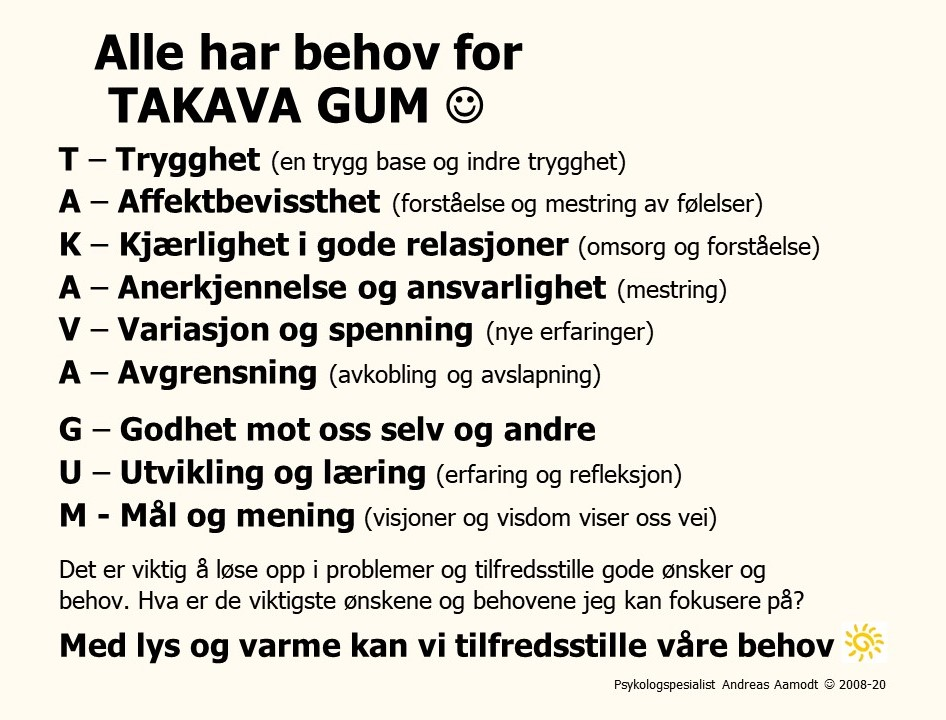
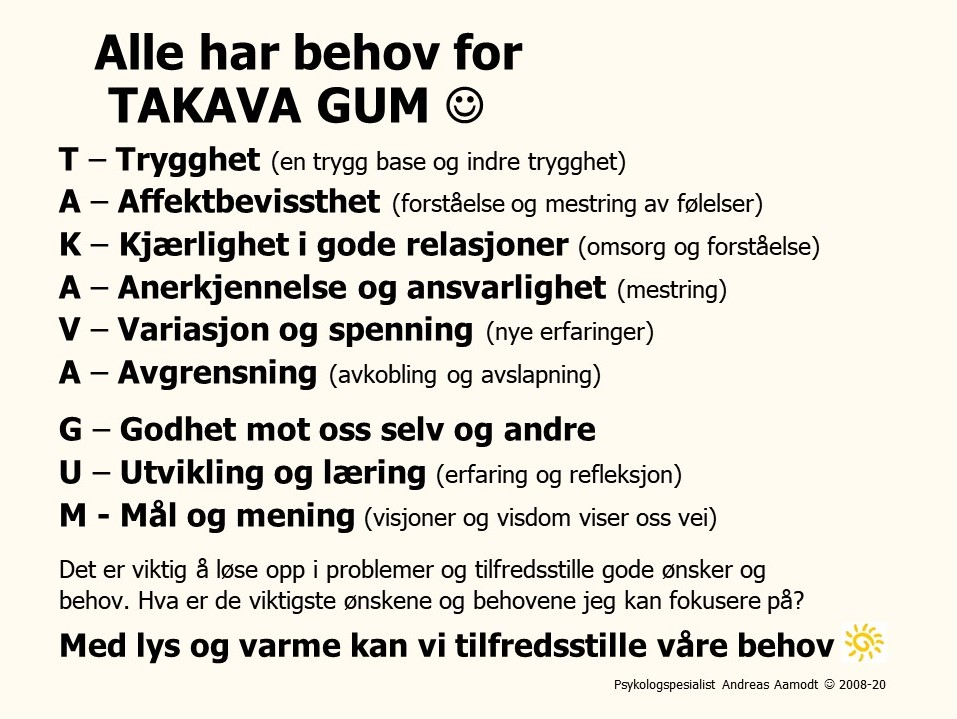
nye bilder

diff --git a/index.html b/index.html
@@ -22,6 +22,10 @@ img {
 
 <img src="images/folelseringer_gull.jpg" class="center" style="img">
 
+<img src="images/godeonsker_gull.jpg" class="center" style="img">
+
+<img src="images/takavagum_gull.jpg" class="center" style="img">
+
 <img src="images/hvordanhjelpeossselv_gull.jpg" class="center" style="img">
 
 <img src="images/hvordanhjelpehverandre_gull.jpg" class="center" style="img">
